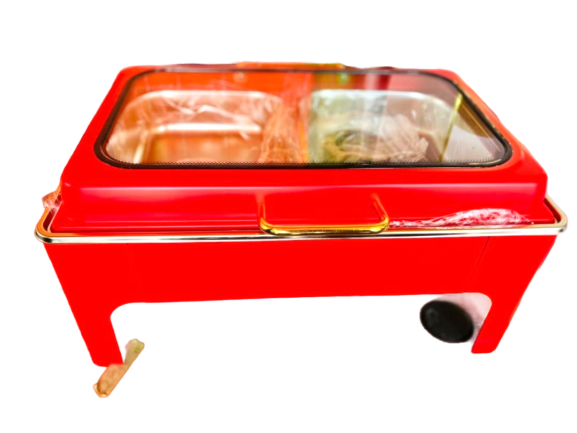
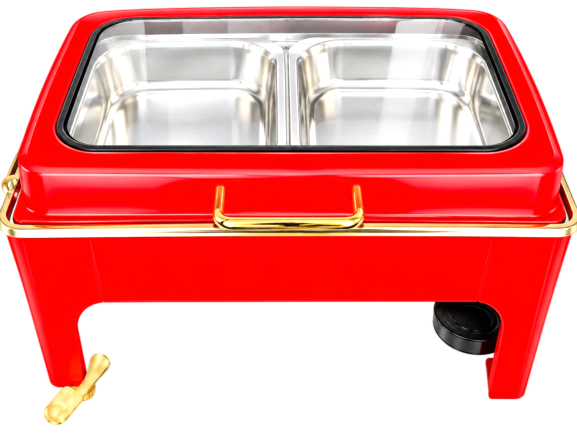
i aded products'

diff --git a/products.html b/products.html
@@ -74,6 +74,8 @@
                     <button class="filter-btn" type="button" data-filter="dinnerware" aria-pressed="false">Dinnerware</button>
                     <button class="filter-btn" type="button" data-filter="serving" aria-pressed="false">Serving pieces</button>
                     <button class="filter-btn" type="button" data-filter="dispensers" aria-pressed="false">Dispensers</button>
+                    <button class="filter-btn" type="button" data-filter="coolers" aria-pressed="false">Coolers</button>
+                    <button class="filter-btn" type="button" data-filter="icingbucket" aria-pressed="false">Icing Bucket</button>
                 </div>
 
                 <p class="results-count" id="product-count" role="status" aria-live="polite">Showing 9 of 9 products</p>
@@ -95,7 +97,7 @@
                                     data-add-to-cart
                                     data-id="dinnerware-grey-ribbed"
                                     data-name="Grey Ribbed Dinner Set"
-                                    data-price="45000"
+                                    data-price="30000"
                                     data-image="images/malodacimage1.png">
                                 Add to cart <i class="fa-solid fa-cart-plus" aria-hidden="true"></i>
                             </button>
@@ -141,7 +143,7 @@
                                     data-add-to-cart
                                     data-id="chafing-rolltop-gold"
                                     data-name="Rolltop Chafing Dish (Gold)"
-                                    data-price="120000"
+                                    data-price="130000"
                                     data-image="images/malodacimage3.png">
                                 Add to cart <i class="fa-solid fa-cart-plus" aria-hidden="true"></i>
                             </button>
@@ -285,6 +287,169 @@
                             </button>
                         </div>
                     </li>
+
+                    <li class="product-card" data-category="chafing">
+                        <div class="product-thumb">
+                            <img src="images/malodacimage9.png" width="608" height="410" loading="lazy" alt="silver round chaffen dish ">
+                        </div>
+                        <div class="product-body">
+                            <h3 class="product-name">Round Silver Chaffen Dish</h3>
+                            <p class="product-price">&#8358;120,000</p>
+                            <div class="qty-stepper">
+                                <button class="qty-btn" type="button" data-qty-decrease aria-label="Decrease quantity">&minus;</button>
+                                <input class="qty-input" type="number" value="1" min="1" max="99" inputmode="numeric" aria-label="Quantity">
+                                <button class="qty-btn" type="button" data-qty-increase aria-label="Increase quantity">+</button>
+                            </div>
+                            <button class="btn btn-primary btn-sm add-to-cart-btn" type="button"
+                                    data-add-to-cart
+                                    data-id="round-silver-chaffen"
+                                    data-name="Round Silver Chaffen Dish"
+                                    data-price="120000"
+                                    data-image="images/malodacimage9.png">
+                                Add to cart <i class="fa-solid fa-cart-plus" aria-hidden="true"></i>
+                            </button>
+                        </div>
+                    </li>
+
+                    <li class="product-card" data-category="chafing">
+                        <div class="product-thumb">
+                            <img src="images/malodacimage10.png" width="608" height="410" loading="lazy" alt="gold luxury chaffen dish ">
+                        </div>
+                        <div class="product-body">
+                            <h3 class="product-name">Gold Luxury Chaffen Dish</h3>
+                            <p class="product-price">&#8358;150,000</p>
+                            <div class="qty-stepper">
+                                <button class="qty-btn" type="button" data-qty-decrease aria-label="Decrease quantity">&minus;</button>
+                                <input class="qty-input" type="number" value="1" min="1" max="99" inputmode="numeric" aria-label="Quantity">
+                                <button class="qty-btn" type="button" data-qty-increase aria-label="Increase quantity">+</button>
+                            </div>
+                            <button class="btn btn-primary btn-sm add-to-cart-btn" type="button"
+                                    data-add-to-cart
+                                    data-id="luxury-gold-chaffen-round"
+                                    data-name="Gold Luxury Chaffen Dish"
+                                    data-price="150000"
+                                    data-image="images/malodacimage10.png">
+                                Add to cart <i class="fa-solid fa-cart-plus" aria-hidden="true"></i>
+                            </button>
+                        </div>
+                    </li>
+
+                    <li class="product-card" data-category="coolers">
+                        <div class="product-thumb">
+                            <img src="images/malodacimage11.png" width="608" height="410" loading="lazy" alt="red-fridge-cooler">
+                        </div>
+                        <div class="product-body">
+                            <h3 class="product-name">Red Fridge Cooler</h3>
+                            <p class="product-price">&#8358;350,000</p>
+                            <div class="qty-stepper">
+                                <button class="qty-btn" type="button" data-qty-decrease aria-label="Decrease quantity">&minus;</button>
+                                <input class="qty-input" type="number" value="1" min="1" max="99" inputmode="numeric" aria-label="Quantity">
+                                <button class="qty-btn" type="button" data-qty-increase aria-label="Increase quantity">+</button>
+                            </div>
+                            <button class="btn btn-primary btn-sm add-to-cart-btn" type="button"
+                                    data-add-to-cart
+                                    data-id="red-fridge-cooler"
+                                    data-name="Red Fridge Cooler"
+                                    data-price="350000"
+                                    data-image="images/malodacimage11.png">
+                                Add to cart <i class="fa-solid fa-cart-plus" aria-hidden="true"></i>
+                            </button>
+                        </div>
+                    </li>
+
+                    <li class="product-card" data-category="chafing">
+                        <div class="product-thumb">
+                            <img src="images/malodacimage12.png" width="608" height="410" loading="lazy" alt="two-portion-chaffen-dish">
+                        </div>
+                        <div class="product-body">
+                            <h3 class="product-name">Two Portion Chaffen Dish</h3>
+                            <p class="product-price">&#8358;200,000</p>
+                            <div class="qty-stepper">
+                                <button class="qty-btn" type="button" data-qty-decrease aria-label="Decrease quantity">&minus;</button>
+                                <input class="qty-input" type="number" value="1" min="1" max="99" inputmode="numeric" aria-label="Quantity">
+                                <button class="qty-btn" type="button" data-qty-increase aria-label="Increase quantity">+</button>
+                            </div>
+                            <button class="btn btn-primary btn-sm add-to-cart-btn" type="button"
+                                    data-add-to-cart
+                                    data-id="two-portion-chaffen-dish"
+                                    data-name="Two Portion Chaffen Dish"
+                                    data-price="200000"
+                                    data-image="images/malodacimage12.png">
+                                Add to cart <i class="fa-solid fa-cart-plus" aria-hidden="true"></i>
+                            </button>
+                        </div>
+                    </li>
+
+                    <li class="product-card" data-category="icingbucket">
+                        <div class="product-thumb">
+                            <img src="images/malodacimage13.png" width="608" height="410" loading="lazy" alt="silver-icing-bucket">
+                        </div>
+                        <div class="product-body">
+                            <h3 class="product-name">Silver Icing Bowl</h3>
+                            <p class="product-price">&#8358;50,000</p>
+                            <div class="qty-stepper">
+                                <button class="qty-btn" type="button" data-qty-decrease aria-label="Decrease quantity">&minus;</button>
+                                <input class="qty-input" type="number" value="1" min="1" max="99" inputmode="numeric" aria-label="Quantity">
+                                <button class="qty-btn" type="button" data-qty-increase aria-label="Increase quantity">+</button>
+                            </div>
+                            <button class="btn btn-primary btn-sm add-to-cart-btn" type="button"
+                                    data-add-to-cart
+                                    data-id="silver-icing-bucket"
+                                    data-name="Silver Icing Bowl"
+                                    data-price="50000"
+                                    data-image="images/malodacimage13.png">
+                                Add to cart <i class="fa-solid fa-cart-plus" aria-hidden="true"></i>
+                            </button>
+                        </div>
+                    </li>
+
+                    <li class="product-card" data-category="icingbucket">
+                        <div class="product-thumb">
+                            <img src="images/malodacimage15.png" width="608" height="410" loading="lazy" alt="gold-icing-bucket">
+                        </div>
+                        <div class="product-body">
+                            <h3 class="product-name">Gold Icing Bowl</h3>
+                            <p class="product-price">&#8358;60,000</p>
+                            <div class="qty-stepper">
+                                <button class="qty-btn" type="button" data-qty-decrease aria-label="Decrease quantity">&minus;</button>
+                                <input class="qty-input" type="number" value="1" min="1" max="99" inputmode="numeric" aria-label="Quantity">
+                                <button class="qty-btn" type="button" data-qty-increase aria-label="Increase quantity">+</button>
+                            </div>
+                            <button class="btn btn-primary btn-sm add-to-cart-btn" type="button"
+                                    data-add-to-cart
+                                    data-id="gold-icing-bucket"
+                                    data-name="Gold Icing Bowl"
+                                    data-price="60000"
+                                    data-image="images/malodacimage15.png">
+                                Add to cart <i class="fa-solid fa-cart-plus" aria-hidden="true"></i>
+                            </button>
+                        </div>
+                    </li>
+
+                    <li class="product-card" data-category="icingbucket">
+                        <div class="product-thumb">
+                            <img src="images/malodacimage14.png" width="608" height="410" loading="lazy" alt="black-icing-bucket">
+                        </div>
+                        <div class="product-body">
+                            <h3 class="product-name">Black Icing Bowl</h3>
+                            <p class="product-price">&#8358;70,000</p>
+                            <div class="qty-stepper">
+                                <button class="qty-btn" type="button" data-qty-decrease aria-label="Decrease quantity">&minus;</button>
+                                <input class="qty-input" type="number" value="1" min="1" max="99" inputmode="numeric" aria-label="Quantity">
+                                <button class="qty-btn" type="button" data-qty-increase aria-label="Increase quantity">+</button>
+                            </div>
+                            <button class="btn btn-primary btn-sm add-to-cart-btn" type="button"
+                                    data-add-to-cart
+                                    data-id="black-icing-bucket"
+                                    data-name="Black Icing Bowl"
+                                    data-price="70000"
+                                    data-image="images/malodacimage14.png">
+                                Add to cart <i class="fa-solid fa-cart-plus" aria-hidden="true"></i>
+                            </button>
+                        </div>
+                    </li>
+
+
                 </ul>
             </div>
         </section>
